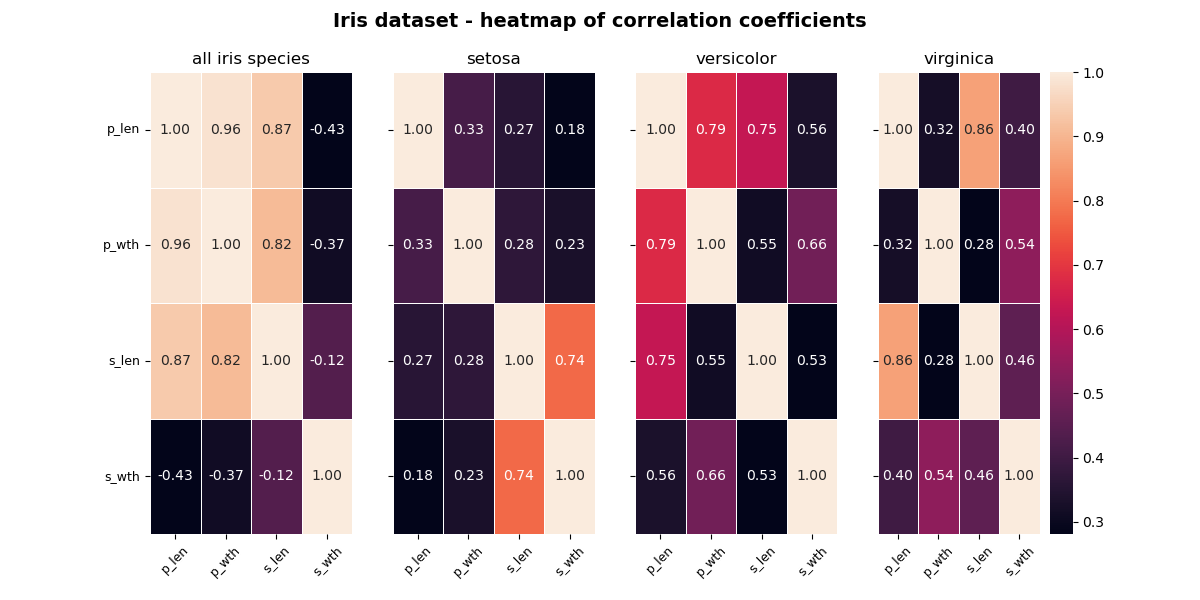
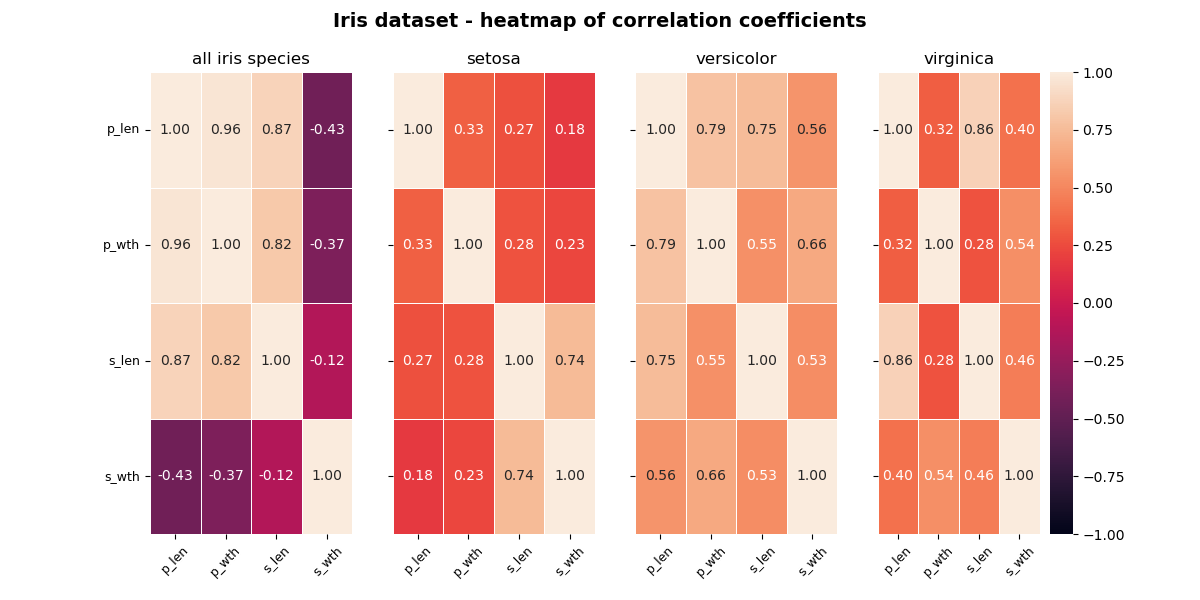
Minor update for heatmap common scale bar

diff --git a/write_correlation.py b/write_correlation.py
@@ -46,7 +46,7 @@ def iris_corr(iris):
                 f.write("for each species separately, and then compare the summaries.")
 
                 # Draw the correlation heatmap for the iris dataset - only need 1 color bar
-                sns.heatmap(corr, annot=True, fmt=".2f", linewidth=.5, ax=axes[0], cbar=False)
+                sns.heatmap(corr, annot=True, fmt=".2f", linewidth=.5, ax=axes[0], vmin=-1, vmax=1, cbar=False)
                 axes[0].set_title("all iris species")
 
                 # Calculate and write the correlation for the setosa species
@@ -56,7 +56,7 @@ def iris_corr(iris):
                 f.write(str(corr))
 
                 # Draw the correlation heatmap for the setosa species - only need 1 color bar
-                sns.heatmap(corr, annot=True, fmt=".2f", linewidth=.5, ax=axes[1], cbar=False)
+                sns.heatmap(corr, annot=True, fmt=".2f", linewidth=.5, ax=axes[1], vmin=-1, vmax=1, cbar=False)
                 axes[1].set_title("setosa")
 
                 # Calculate and write the correlation for the versicolor species
@@ -66,7 +66,7 @@ def iris_corr(iris):
                 f.write(str(corr))
 
                 # Draw the correlation heatmap for the versicolor species - only need 1 color bar
-                sns.heatmap(corr, annot=True, fmt=".2f", linewidth=.5, ax=axes[2], cbar=False)
+                sns.heatmap(corr, annot=True, fmt=".2f", linewidth=.5, ax=axes[2], vmin=-1, vmax=1, cbar=False)
                 axes[2].set_title("versicolor")
 
                 # Calculate and write the correlation for the virginica species
@@ -76,7 +76,7 @@ def iris_corr(iris):
                 f.write(str(corr))
 
                 # Draw the correlation heatmap for the virginica species (with color bar) and write all to file
-                sns.heatmap(corr, annot=True, fmt=".2f", linewidth=.5, ax=axes[3], cbar=True)
+                sns.heatmap(corr, annot=True, fmt=".2f", linewidth=.5, ax=axes[3], vmin=-1, vmax=1, cbar=True)
                 axes[3].set_title("virginica")
 
                 # Configure the x and y axis labels
